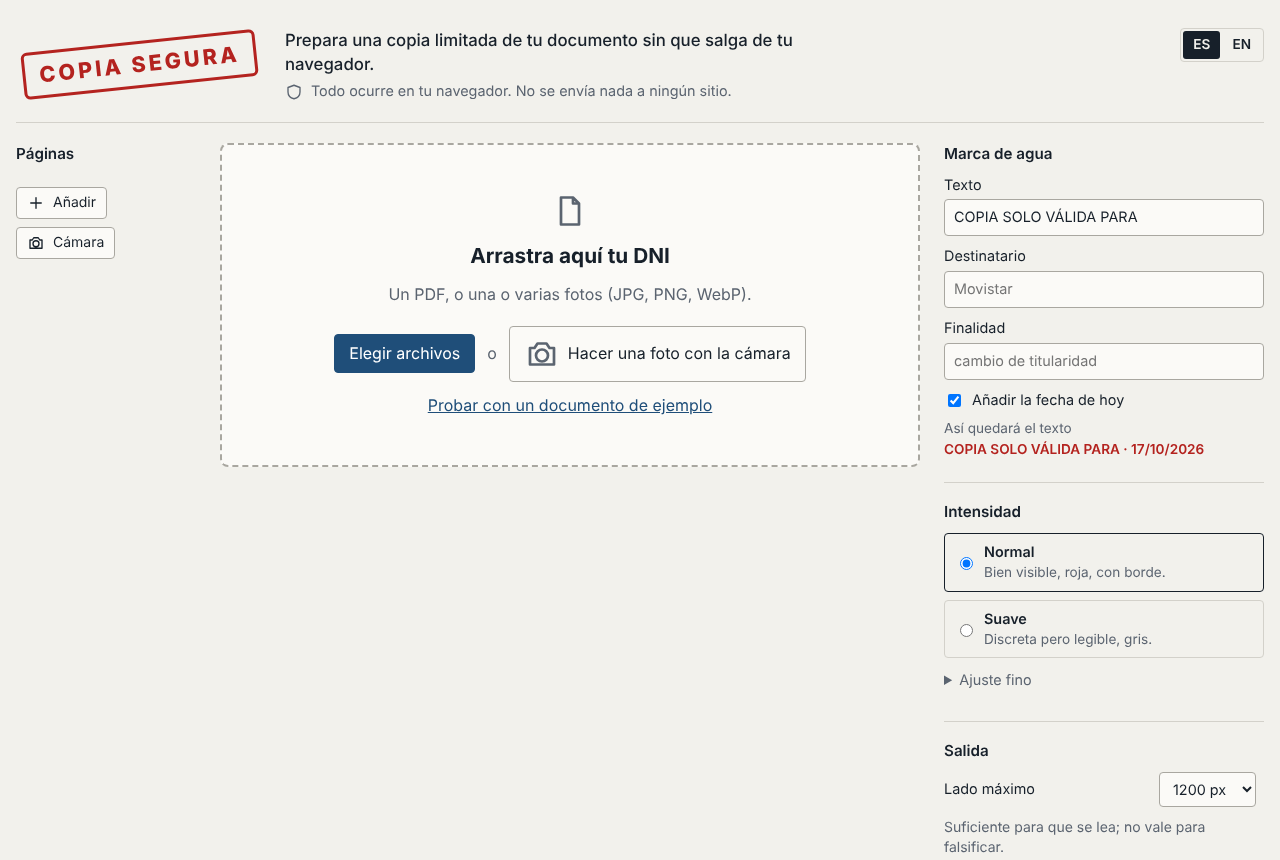
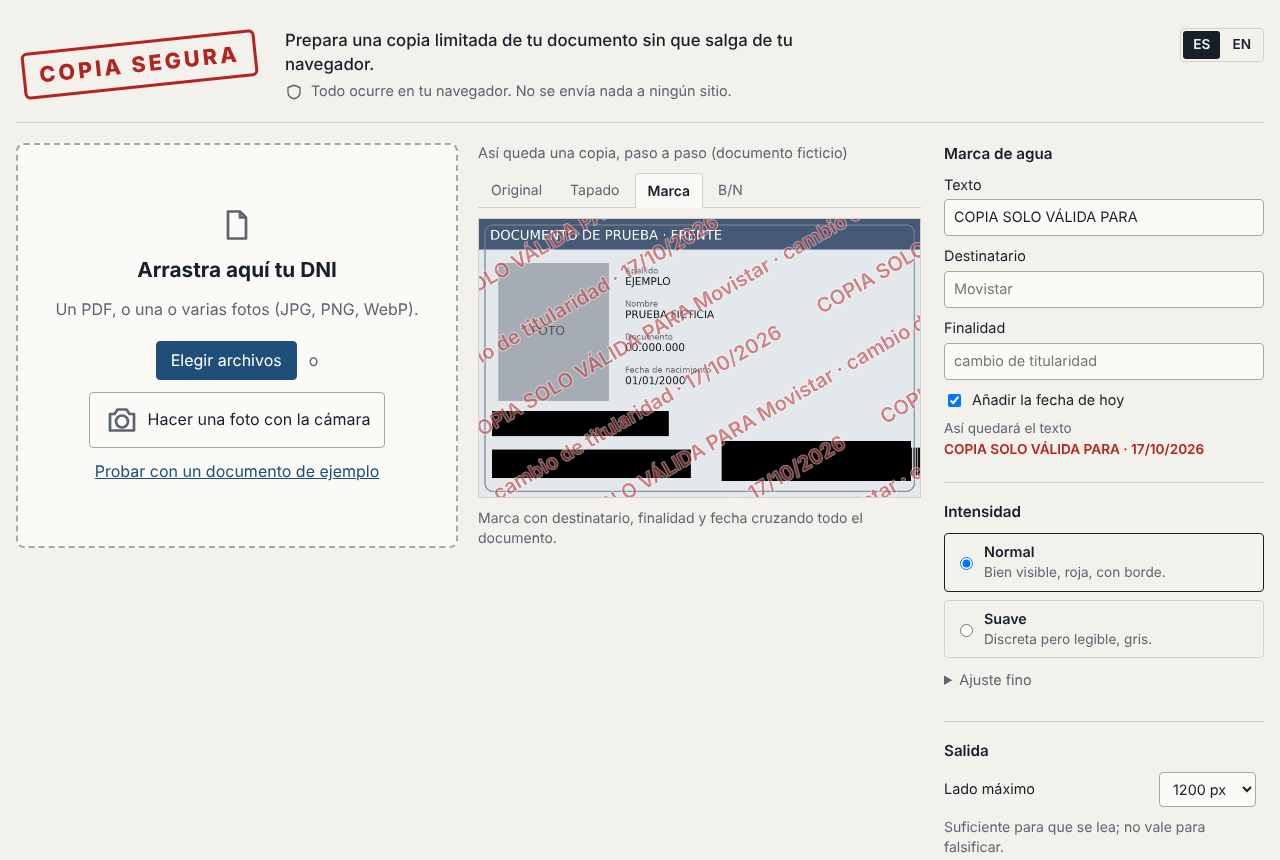
docs: diferencial en el README, changelog 1.1.0 y capturas nuevas
Claude-Session: https://claude.ai/code/session_01LUxn2Ph3TUErC9MN3Ck8ty

diff --git a/README.md b/README.md
@@ -6,7 +6,7 @@ sin cuenta, sin instalar nada.
 
 [English version](README.en.md) · [Probar la aplicación](https://hbonavota.github.io/copia-segura/) · [Cómo está hecha](docs/arquitectura.md)
 
-![Editor de copia segura con el documento de ejemplo: marca diagonal, una zona tapada y el panel de ajustes](docs/img/editor.png)
+![Portada de copia segura: zona de carga, demo paso a paso con un documento ficticio y ajustes de la marca](docs/img/inicio.png)
 
 ## Por qué
 
@@ -21,17 +21,36 @@ documento a un servidor ajeno, que es justo lo que quieres evitar.
 
 ## Qué hace
 
-|                   |                                                                                                                                                                                                                                                                        |
-| ----------------- | ---------------------------------------------------------------------------------------------------------------------------------------------------------------------------------------------------------------------------------------------------------------------- |
-| **Entrada**       | Un PDF (cada página es editable; si la página es un A4 con la foto del documento dentro, se recorta sola), fotos JPG/PNG/WebP, o una captura con la cámara para la foto sosteniendo el documento (sin espejo).                                                         |
-| **Edición**       | Tapar zonas dibujando con el ratón o por franjas con botones, recortar, girar, deshacer.                                                                                                                                                                               |
-| **Marca de agua** | Texto editable: `COPIA SOLO VÁLIDA PARA <destinatario> · <finalidad> · <fecha>`. Dos intensidades (_Normal_ y _Suave_) y ajuste fino de opacidad, tamaño, separación, ángulo, color y borde. El mosaico cruza toda la imagen, también las esquinas.                    |
-| **Salida**        | JPG por página, ZIP o un PDF de varias páginas. Lado máximo configurable (1200 px por defecto), sin EXIF, XMP ni perfil de color de la foto original.                                                                                                                  |
-| **Privacidad**    | Todo ocurre en el navegador. La página no puede hacer peticiones a otros dominios (lo impone su _Content Security Policy_) y no guarda el documento en ningún sitio. Un test e2e registra todas las peticiones de un flujo completo y falla si alguna sale del origen. |
+|                   |                                                                                                                                                                                                                                                                                                            |
+| ----------------- | ---------------------------------------------------------------------------------------------------------------------------------------------------------------------------------------------------------------------------------------------------------------------------------------------------------- |
+| **Entrada**       | Un PDF (cada página es editable; si la página es un A4 con la foto del documento dentro, se recorta sola), fotos JPG/PNG/WebP, o una captura con la cámara para la foto sosteniendo el documento (sin espejo). La portada enseña el resultado, paso a paso, con un documento ficticio antes de subir nada. |
+| **Edición**       | Tapar zonas dibujando con el ratón o el dedo, por franjas con botones o con plantillas de zonas típicas (DNI de España y de Argentina, frente y dorso); recortar, girar, deshacer.                                                                                                                         |
+| **Marca de agua** | Texto editable: `COPIA SOLO VÁLIDA PARA <destinatario> · <finalidad> · <fecha>`. Dos intensidades (_Normal_ y _Suave_) y ajuste fino de opacidad, tamaño, separación, ángulo, color y borde. El mosaico cruza toda la imagen, también las esquinas.                                                        |
+| **Salida**        | JPG por página, ZIP, un PDF de varias páginas o el menú de compartir del móvil. Blanco y negro opcional. Lado máximo configurable (1200 px por defecto), sin EXIF, XMP ni perfil de color de la foto original.                                                                                             |
+| **Privacidad**    | Todo ocurre en el navegador. La página no puede hacer peticiones a otros dominios (lo impone su _Content Security Policy_) y no guarda el documento en ningún sitio. Un test e2e registra todas las peticiones de un flujo completo y falla si alguna sale del origen.                                     |
 
 Y lo que **no** hace, dicho en la propia interfaz: una marca de agua disuade y deja rastro, pero no
 impide que alguien use la copia, y se puede intentar borrar con herramientas de _inpainting_. Los
 detalles están en el [modelo de amenazas](docs/amenazas.md).
+
+## Qué la hace distinta
+
+Hay otras webs que prometen procesar el documento "en local". La diferencia está en que aquí no
+hace falta creérselo:
+
+|                                      | copia segura                                                                                                                                                                                   |
+| ------------------------------------ | ---------------------------------------------------------------------------------------------------------------------------------------------------------------------------------------------- |
+| **Sin terceros**                     | Ni analítica, ni fuentes de Google, ni CDN. Ni siquiera tu IP sale hacia otro dominio.                                                                                                         |
+| **Verificable, no prometido**        | Una _Content Security Policy_ impide al navegador conectar con otros dominios (también dentro del worker que analiza el PDF), y un test e2e lo comprueba en cada cambio. El código es público. |
+| **PDF y varias páginas**             | Abre el PDF del escáner o del móvil, recorta sola la tarjeta que hay dentro y exporta frente y dorso juntos en PDF o ZIP.                                                                      |
+| **Sin metadatos y resolución justa** | Quita ubicación, modelo de móvil y fecha de la foto; limita el tamaño para que sirva para leer, no para falsificar.                                                                            |
+| **Zonas típicas en un clic**         | Plantillas para el DNI de España y de Argentina (frente y dorso).                                                                                                                              |
+| **Blanco y negro**                   | El documento en grises con la marca en color.                                                                                                                                                  |
+| **Honesta sobre sus límites**        | Explica qué consigue una marca de agua y qué no, en vez de prometer una seguridad que no existe.                                                                                               |
+
+La propia aplicación incluye un apartado **Compruébalo tú** con los tres pasos para verificarlo sin
+leer código: pestaña _Red_ de las herramientas de desarrollo, la política de seguridad en el código
+fuente de la página, y el test que lo comprueba.
 
 ## Usarla
 
@@ -85,7 +104,7 @@ Más detalle y un diagrama en [`docs/arquitectura.md`](docs/arquitectura.md).
 
 ```
 docs/
-  specs/          SPEC-0001…0004: visión, requisitos, RNF, modelo de dominio
+  specs/          SPEC-0001…0005: visión, requisitos, RNF, modelo de dominio, portada y diferencial
   adr/            decisiones de arquitectura
   arquitectura.md capas, puertos, flujo de un caso de uso
   amenazas.md     qué protege y qué no

diff --git a/README.en.md b/README.en.md
@@ -6,7 +6,7 @@ account, nothing to install.
 
 [Versión en español](README.md) · [Try it](https://hbonavota.github.io/copia-segura/) · [How it is built](docs/arquitectura.md)
 
-![The editor with the sample document: diagonal watermark, one redacted area and the settings panel](docs/img/editor.png)
+![copia segura landing: upload area, step-by-step demo with a fictional document and watermark settings](docs/img/inicio.png)
 
 ## Why
 
@@ -24,14 +24,33 @@ else's server, which is exactly what you want to avoid.
 |               |                                                                                                                                                                                                                                                                                |
 | ------------- | ------------------------------------------------------------------------------------------------------------------------------------------------------------------------------------------------------------------------------------------------------------------------------ |
 | **Input**     | A PDF (every page is editable; if a page is an A4 with the document photo inside, it is cropped automatically), JPG/PNG/WebP photos, or a camera capture for the "holding the document" selfie (not mirrored).                                                                 |
-| **Editing**   | Redact areas by drawing with the mouse or by strips with buttons, crop, rotate, undo.                                                                                                                                                                                          |
+| **Editing**   | Redact areas by drawing with mouse or finger, by strips with buttons, or with templates of typical areas (Spanish and Argentine IDs, front and back); crop, rotate, undo.                                                                                                      |
 | **Watermark** | Editable text: `COPY ONLY VALID FOR <recipient> · <purpose> · <date>` (Spanish default in the Spanish UI). Two intensities (_Normal_ and _Subtle_) plus fine tuning of opacity, size, spacing, angle, colour and outline. The tiling covers the whole image, corners included. |
-| **Output**    | One JPG per page, a ZIP, or a multi-page PDF. Configurable longest side (1200 px by default); no EXIF, XMP or colour profile from the original photo.                                                                                                                          |
+| **Output**    | One JPG per page, a ZIP, a multi-page PDF, or the phone's share menu. Optional black and white. Configurable longest side (1200 px by default); no EXIF, XMP or colour profile from the original photo.                                                                        |
 | **Privacy**   | Everything happens in the browser. The page cannot make requests to other domains (enforced by its Content Security Policy) and stores the document nowhere. An end-to-end test records every request of a full flow and fails if any leaves the origin.                       |
 
 And what it does **not** do, stated in the interface itself: a watermark deters and leaves a trace,
 but it does not stop someone from using the copy, and it can be attacked with inpainting tools.
 Details in the [threat model](docs/amenazas.md) (Spanish).
+
+## What makes it different
+
+Other sites also promise to process your document "locally". The difference is that here you do
+not have to take our word for it:
+
+|                                         | copia segura                                                                                                                                                                                     |
+| --------------------------------------- | ------------------------------------------------------------------------------------------------------------------------------------------------------------------------------------------------ |
+| **No third parties**                    | No analytics, no Google Fonts, no CDN. Not even your IP address goes to another domain.                                                                                                          |
+| **Verifiable, not promised**            | A Content Security Policy stops the browser from connecting to other domains (also inside the worker that parses the PDF), and an end-to-end test checks it on every change. The code is public. |
+| **PDFs and multiple pages**             | Open the PDF from your scanner or phone, crop the card inside it automatically, and export front and back together as PDF or ZIP.                                                                |
+| **No metadata, just enough resolution** | Removes location, phone model and date from the photo; caps the size so it is good for reading, not forging.                                                                                     |
+| **Typical areas in one click**          | Templates for Spanish and Argentine IDs (front and back).                                                                                                                                        |
+| **Black and white**                     | The document in greyscale, the watermark in colour.                                                                                                                                              |
+| **Honest about its limits**             | It explains what a watermark achieves and what it does not, instead of promising security that does not exist.                                                                                   |
+
+The app itself has a **Check it yourself** section with three steps to verify this without reading
+code: the Network tab of the developer tools, the security policy in the page source, and the test
+that enforces it.
 
 ## Use it
 

diff --git a/docs/arquitectura.md b/docs/arquitectura.md
@@ -13,13 +13,13 @@ flowchart LR
   end
   subgraph app["application/ (casos de uso y puertos)"]
     UC["ImportFiles · RenderPage<br/>ExportCopies · CaptureFromCamera"]
-    Ports["puertos: PdfReader, ImageDecoder,<br/>Rasterizer, TextMeasurer, PdfWriter,<br/>Archiver, Downloader, Camera, Clock"]
+    Ports["puertos: PdfReader, ImageDecoder,<br/>Rasterizer, TextMeasurer, PdfWriter,<br/>Archiver, Downloader, Sharer, Camera, Clock"]
   end
   subgraph dom["domain/ (puro)"]
     D["Page · PageEdits · NormalizedRect<br/>WatermarkStyle · WatermarkText · OutputOptions<br/>CopyPlan · presets · geometry · watermark · pdf-images"]
   end
   subgraph infra["infrastructure/ (adaptadores)"]
-    I["PdfJsReader · BrowserImageDecoder<br/>CanvasRasterizer · CanvasTextMeasurer<br/>PdfLibWriter · JsZipArchiver<br/>AnchorDownloader · MediaDevicesCamera · SystemClock"]
+    I["PdfJsReader · BrowserImageDecoder<br/>CanvasRasterizer · CanvasTextMeasurer<br/>PdfLibWriter · JsZipArchiver<br/>AnchorDownloader · WebShareSharer<br/>MediaDevicesCamera · SystemClock"]
   end
   Main --> Views --> Store
   Views --> UC
@@ -43,6 +43,8 @@ Funciones puras y tipos. Sin imports externos a la carpeta, sin DOM, sin `Date.n
 | `watermark.ts`  | Composición del texto (`composeWatermarkText`) y cálculo del mosaico (`layoutWatermark`), que recibe una función `MeasureText` para medir. |
 | `plan.ts`       | `planCopy(...)`: combina todo lo anterior en un `CopyPlan` determinista.                                                                   |
 | `pdf-images.ts` | Reconstrucción de la matriz de transformación sobre la lista de operadores de un PDF para localizar imágenes incrustadas.                  |
+| `templates.ts`  | Plantillas de zonas a tapar por tipo de documento, relativas a la tarjeta (RF-16).                                                         |
+| `templates.ts`  | Plantillas de zonas a tapar por tipo de documento, relativas a la tarjeta (RF-16).                                                         |
 | `naming.ts`     | Nombres de archivo de salida.                                                                                                              |
 
 ### `src/application/`

diff --git a/CHANGELOG.md b/CHANGELOG.md
@@ -2,6 +2,25 @@
 
 Formato: [Keep a Changelog](https://keepachangelog.com/es/1.1.0/). Versionado semántico.
 
+## [1.1.0] · 2026-10-17
+
+SPEC-0005: lo que hace distinta a la herramienta, a la vista.
+
+### Añadido
+
+- Demo en la portada: la tarjeta ficticia procesada en vivo, con pestañas Original / Tapado /
+  Marca / B/N (RF-14).
+- Copia en blanco y negro con la marca en color (RF-15).
+- Plantillas de zonas típicas para el DNI de España y de Argentina, frente y dorso (RF-16).
+- Apartados _Compruébalo tú_ y _Qué la hace distinta_ en la interfaz y en el README (RF-17).
+- Móvil primero: editor delante, barra de exportación fija y botón _Compartir_ con el menú nativo
+  (RF-18).
+
+### Corregido
+
+- El atributo `hidden` no ocultaba elementos con `display` propio (la portada seguía visible en
+  móvil tras cargar un documento).
+
 ## [1.0.0] · 2026-10-17
 
 Primera versión pública. Reemplaza al script Python original (Pillow + PyMuPDF) por una aplicación
